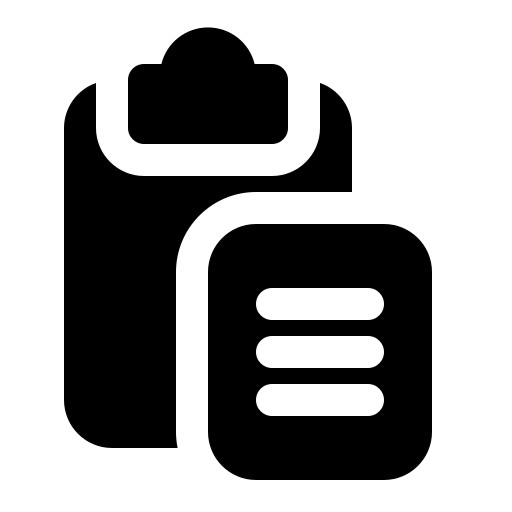
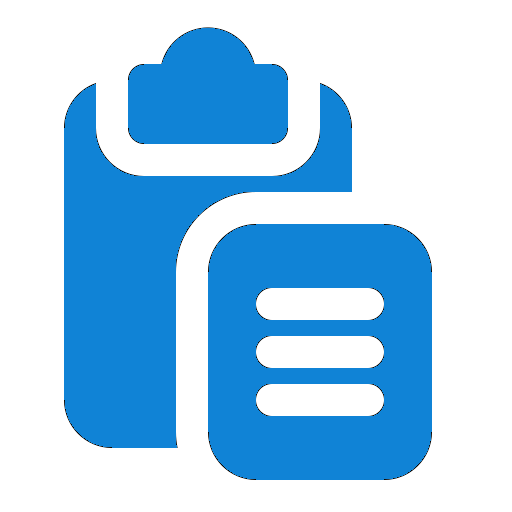
dark mode ready

diff --git a/js/script.js b/js/script.js
@@ -39,59 +39,24 @@ function pegarTexto() {
 
 function limpiar() {
   document.getElementById("texto").value = " ";
-  /*  let textAreaTexto = document.getElementById("texto");
-   textAreaTexto.placeholder = "newww"; */
   document.getElementById("resultado").value = " ";
 }
-/* 
-const themeButton = document.getElementById('theme-button')
-const darkTheme = 'dark-theme'
-
-themeButton.addEventListener('click', () => {
-  document.body.classList.toggle(darkTheme)
-}) */
-
-// Preguntamos qué tema tiene el usuario
-// true = dark
-// false = light
-/* const userHasDarkTheme = window.matchMedia('(prefers-color-scheme: dark)').matches */
-// Preguntamos si el usuario tiene tema dark
-// En caso de que sí, lo activamos
-/* if (userHasDarkTheme) document.body.classList.add(darkTheme) */
-// Botón para activar el tema
-const themeButton = document.getElementById('theme-button')
-// Nombre de la clase con la que activamos el tema dark
-const darkTheme = 'dark-theme'
-// Tema seleccionado por el usuario anteriormente (si es que lo hizo)
-const selectedTheme = localStorage.getItem('selected-theme')
-// Preguntamos qué tema tiene el usuario en su sistema
-// true = dark
-// false = light
 
 
-const userHasDarkTheme = window.matchMedia('(prefers-color-scheme: dark)').matches
-// Obtenemos el tema actual que tiene la interfaz validando la clase dark-theme
-const getCurrentTheme = () => document.body.classList.contains(darkTheme) ? 'dark' : 'light'
+const themeButton = document.getElementById('theme-button');
+const darkTheme = 'dark-theme';
+const selectedTheme = localStorage.getItem('selected-theme');
 
-// Validamos si el usuario anteriormente elegió un tema
+const userHasDarkTheme = window.matchMedia('(prefers-color-scheme: dark)').matches;
+const getCurrentTheme = () => document.body.classList.contains(darkTheme) ? 'dark' : 'light';
+
 if (selectedTheme) {
-  // Si se cumple la validación, preguntamos cuál fue el tema para saber si activamos o desactivamos el dark
   document.body.classList[selectedTheme === 'dark' ? 'add' : 'remove'](darkTheme)
 } else {
-  // Preguntamos si el usuario tiene tema dark en su sistema
-  // En caso de que sí, lo activamos en la interfaz
   if (userHasDarkTheme) document.body.classList.add(darkTheme)
 }
 
-/* if (getCurrentTheme !== 'dark') {
-  themeButton.textContent = 'sol';
-} else {
-  themeButton.textContent = 'luna';
-} */
-// Activar/desactivar el tema manualmente con el botón
 themeButton.addEventListener('click', () => {
-  // Agregamos o quitamos el tema dark
   document.body.classList.toggle(darkTheme)
-  // Guardamos el tema actual que eligió el usuario
   localStorage.setItem('selected-theme', getCurrentTheme())
 })

diff --git a/css/style.css b/css/style.css
@@ -1,5 +1,5 @@
 :root {
-  --main-color: #1083D6;
+  --main-color: #1083d6;
   --title-color: #2A3B47;
   --text-color: #697477;
   --light-text-color: #A0A7AC;
@@ -49,17 +49,15 @@ h1 {
 }
 
 .container {
-  background: var(--container-color);
-  color: var(--text-color);
   max-width: 1024px;
+  color: var(--text-color);
+  background: var(--container-color);
   margin: 0 auto 1.5rem auto;
   padding: 1rem 0;
   display: flex;
   flex-direction: row;
   gap: 1rem;
 
-  /* border: 0.125rem solid #121212; */
-  /*   filter: drop-shadow(4px 4px #121212); */
   border-radius: 0.5rem;
   box-shadow: 4px 4px var(--shadow-color);
 }
@@ -83,10 +81,7 @@ label {
   height: 80%;
   border-radius: 0.5rem;
   border: 1px solid transparent;
-
   resize: none;
-
-  /*   filter: drop-shadow(4px 4px 4px rgba(0, 0, 0, 0.4)); */
   margin-bottom: 1.5rem;
   color: var(--text-color);
 }
@@ -96,12 +91,14 @@ label {
   justify-content: space-between;
 }
 
+span {
+  font-size: medium;
+}
+
 .egreso {
   width: 400px;
   height: 75vh;
   padding: 1rem;
-
-
   display: flex;
   flex-direction: column;
   justify-content: space-between;
@@ -116,12 +113,10 @@ textarea:focus {
   min-width: 200px;
   height: 80%;
   border-radius: 0.5rem;
-  /* border: 1px solid transparent; */
   resize: none;
 
   border: 0.125rem solid var(--border-color);
   filter: drop-shadow(4px 4px var(--shadow-color));
-  /* box-shadow: 0.25rem 0.25rem var(--shadow-color); */
   margin-bottom: 1.5rem;
 
   color: var(--text-color);
@@ -144,20 +139,28 @@ footer {
 .retro {
   font-weight: bold;
   text-transform: uppercase;
-
-
+  filter: drop-shadow(4px 4px var(--shadow-color));
   background-color: var(--container-color);
   padding: 0.75rem 1rem;
-  border-radius: 0.25rem;
-  border: 0.125rem solid var(--border-color);
-  box-shadow: 0.25rem 0.25rem var(--shadow-color);
-
-  transition: transform 50ms, box-shadow 50ms;
+  border: 0.125rem solid var(--shadow-color);
+  border-radius: 0.1rem;
+  display: inline-block;
+  cursor: pointer;
+  box-shadow: inset 0 0 0 0 var(--shadow-color);
+  -webkit-transition: ease-out 0.4s;
+  -moz-transition: ease-out 0.4s;
+  transition: ease-out 0.4s;
 }
 
 .retro:active {
   transform: translate(0.125rem 0.125rem);
   box-shadow: 0.125rem 0.125rem var(--shadow-color);
+}
+
+.retro:hover {
+  box-shadow: inset 400px 0 0 0 var(--shadow-color);
+  color: var(--main-color);
+  transform: scale(0.99);
 }
 
 .btnImg {

diff --git a/index.html b/index.html
@@ -11,14 +11,14 @@
 
 <body>
   <div class="title">
-    <h1>Encriptador</h1>
+    <h1>Encriptador de Texto</h1>
     <button class="change-theme-button" id="theme-button"></button>
   </div>
   <div class="container">
 
     <div class="ingreso">
 
-      <textarea name="" id="texto" cols="50" rows="4" placeholder="Tu texto va aquí.."></textarea>
+      <textarea name="" id="texto" cols="50" rows="4" placeholder=" Tu texto a encriptar va aquí.."></textarea>
       <!-- <input id="texto" type="text" placeholder="Tu texto va aquí.." rows="4" cols="50"> -->
 
       <label for=""> <span>🛈</span> Solo letras minúsculas y sin acentos </label>
@@ -48,7 +48,7 @@
       <!-- <input type="text" id="resultado" rows="4" cols="50" class="taResultado" readonly> -->
 
       <div class="buttonSec">
-        <button style="min-width: 150px" class="retro" onclick="copiar()" title="Copiar">Copiar</button>
+        <button style="min-width: 150px" class="retro" onclick="copiar()">Copiar</button>
       </div>
     </div>
 
